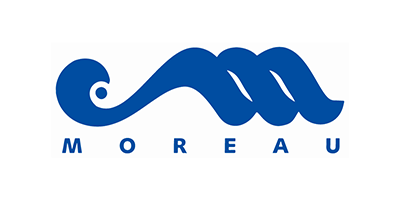
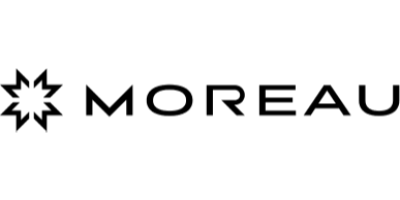
top-12

diff --git a/layouts/_default/baseof.html b/layouts/_default/baseof.html
@@ -71,7 +71,7 @@
           <a class="dropdown-item" href="/devenir-partenaire">Devenir partenaire</a>
             </div>
         </li>
-    <!-- <li class="nav-item dropdown">
+    <li class="nav-item dropdown">
             <a class="nav-link dropdown-toggle" href="#" id="navbarDropdown" role="button" data-toggle="dropdown" aria-haspopup="true" aria-expanded="false">Top 12</a>
              <div class="dropdown-menu" aria-labelledby="navbarDropdown">
             <a class="dropdown-item" href="/top-12-c-est-quoi">C'est quoi ?</a>
@@ -80,7 +80,7 @@
             <a class="dropdown-item" href="/sponsors-top-12">Sponsors Top 12</a>
 
               </div>
-          </li>-->
+          </li>
       <li class="nav-item">
         <a class="nav-link" href="/presse">Presse</a>
       </li>

diff --git a/layouts/section/saison-top-12.html b/layouts/section/saison-top-12.html
@@ -12,9 +12,9 @@
     {{ .Content | markdownify}}
     <br><br>
   <h3 style="font-weight:400">La poule du PSLM</h3>
+<p>Les poules ont été tirées au sort le 24 septembre à Paris à l'occasion des Internationaux de France.</p>
   <div class="row">
-    <p>Les poules ont été tirées au sort le 24 septembre à Paris à l'occasion des Internationaux de France.</p>
-  {{ range .Params.equipepoule }}
+      {{ range .Params.equipepoule }}
   <div class="col-sm-6 col-md-4 col-lg-4 text-center">
 <a href="{{ .lien }}" target="_blank"><img src="{{ .img }}" width="100%" alt="{{ .nom }}">
 <p class="top-12-club">{{ .nom }}</p>

diff --git a/layouts/section/stages.html b/layouts/section/stages.html
@@ -18,10 +18,10 @@
     <p>{{ .Params.ps }}</p>
     <h3>{{ .Params.tarif | markdownify }}</h3>
     <br>
-    <h2>{{ .Params.title }}</h2>
+<!--    <h2>{{ .Params.title }}</h2>
     <h3>{{ .Params.quand }}</h3>
     <img src="{{ .Params.img }}" alt="{{ .Params.title }}" class="text-center">
-    <br>
+    <br>-->
     <h2>{{ .Params.title1 }}</h2>
     <h3>{{ .Params.quand1 }}</h3>
     <img src="{{ .Params.img1 }}" alt="{{ .Params.title1 }}" class="text-center">

diff --git a/layouts/section/equipe-top-12.html b/layouts/section/equipe-top-12.html
@@ -17,7 +17,7 @@
       <div class="encadrement">
         <img src="{{ .img }}" alt="{{ .title }}" class="img-enca">
         <p class="enom">{{ .nom }}</p>
-        <p class="efonc">{{ .fonction }}</p>
+        <!--<p class="efonc">{{ .fonction }}</p>-->
         <p class="edip">{{ .diplome }}</p>
         <p class="eent">Au PSLM depuis {{ .entree }}</p>
       </div>

diff --git a/static/css/style.css b/static/css/style.css
@@ -1349,6 +1349,7 @@ img[alt=dossier-de-partenariat] {
     padding-right: 4rem;
     padding-top: 3rem;
     font-size: 1.1rem;
+    text-align: justify;
 }
 
 .top-12-quoi ul {

diff --git a/content/top-12-c-est-quoi/_index.md b/content/top-12-c-est-quoi/_index.md
@@ -1,7 +1,7 @@
 ---
 title: "Le top 12, C'est quoi ?"
 description: ""
-description2: "Le PSLM à une équipe qui concoure en Top 12.<br>Dans le fonctionnement habituel d'une compétiton de gymnastique artistique en FFGym, toutes les équipes passent aux 4 agrès, on fait le total des points et l'équipe avec le plus de points remporte la compétition. <br>Le format du top 12 est un peu différent, on vous explique ici les subtilités"
+description2: "Le PSLM à une équipe qui concourt en Top 12.<br>Dans le fonctionnement habituel d'une compétiton de gymnastique artistique en FFGym, toutes les équipes passent aux 4 agrès, on fait le total des points et l'équipe avec le plus de points remporte la compétition. <br>Le format du top 12 est un peu différent, on vous explique ici les subtilités"
 galerie:
  - logo:
 banner: "/img/banner-top-12-logo-b.jpg"
@@ -18,7 +18,7 @@ Les rencontres sont réparties sur l'année, avec une première phase de poule (
 
 Chaque rencontre oppose deux équipes. Lors des phases de poule, les équipes vont marquer des points qui vont permettre d'établir le classement de la poule.
 
-- Les premières de chaque poules iront en demi-finales, puis en finale et petite finale.
+- Les premières de chaque poule iront en demi-finales, puis en finale et petite finale.
 - Les deuxièmes joueront un match de classement pour la 5ème à la 8ème place.
 - Les dernières joueront un match de relégation pour essayer de se maintenir pour la saison suivante.
 
@@ -26,13 +26,13 @@ Chaque rencontre oppose deux équipes. Lors des phases de poule, les équipes vo
 ### Des matchs sous forme de duels de gymnaste
 Un match oppose deux équipes. Il va se dérouler avec des duels de gymnaste.
 
-A chaque agrès il y aura 3 passages de 2 gymnastes soit 12 duels au total. Tour à tour les deux clubs qui s'affrontent vont envoyer une gymnaste pour faire le meilleur mouvement possible.
+A chaque agrès il y aura 3 passages de 2 gymnastes soit 12 duels au total. Tour à tour les deux clubs qui s'affrontent vont présenter une gymnaste pour faire le meilleur mouvement possible.
 
 - Un duel remporté fait gagner 3 points à l'équipe,
 - Une défaite fait gagner 1 point,
 - En cas de match nul c'est 2 points pour chaque équipe.
 
-En début de rencontre on tire au sort l'équipe qui commencera par débuter les duels, et ensuite on alterne à chaque duel qui débute.
+ En début de rencontre un tirage au sort est effectué. L'équipe gagnante a le choix ou non de démarrer la compétition. Pour la suite des passages, les duels alternent.
 <br><br>
 ### Stratégie, adrénaline et dépassement de soi !
 

diff --git a/content/equipe-top-12/gym.md b/content/equipe-top-12/gym.md
@@ -4,27 +4,27 @@ encadrement:
  - nom: "Charline BASTIN"
    diplome: "Née en 2005"
    fonction: "PSLM"
-   entree: "1991"
-   img: "/img/gym-top-12-charline.jpg"
+   entree: "2009"
+   img: "/img/gym-top-12-charline.png"
  - nom: "Léa CUXAC"
    diplome: "Née en 2003"
    fonction: "PSLM"
    entree: "2022"
-   img: "/img/gym-top-12-lea.jpg"
+   img: "/img/gym-top-12-lea.png"
  - nom: "Sandra DA SILVA"
-   diplome: "Née en 1989"
+   diplome: "Née en 1998"
    fonction: "PSLM"
    entree: "2008"
    img: "/img/gym-top-12-sandra.png"
  - nom: "Elsa DI LUCA"
    diplome: "Née en 2008"
    fonction: "PSLM"
-   entree: "2018"
+   entree: "2019"
    img: "/img/gym-top-12-elsa.png"
  - nom: "Amel DJALIL"
    diplome: "Née en 2006"
    fonction: "PSLM"
-   entree: "2020"
+   entree: "2019"
    img: "/img/gym-top-12-amel.png"
  - nom: "Zoé JASSERON"
    diplome: "Née en 2004"
@@ -39,28 +39,28 @@ encadrement:
  - nom: "Djenna LAROUI"
    diplome: "Née en 2005"
    fonction: "Pôle France de St Etienne"
-   entree: "1999"
+   entree: "2015"
    img: "/img/gym-top-12-djenna.png"
  - nom: "Salomé LONGEON"
    diplome: "Née en 2008"
    fonction: "PSLM"
-   entree: "2009"
+   entree: "2016"
    img: "/img/gym-top-12-salome.png"
  - nom: "Silane MIELLE"
    diplome: "Née en 2005"
    fonction: "Pôle France de St Etienne"
-   entree: "2020"
+   entree: "2019"
    img: "/img/gym-top-12-silane.png"
  - nom: "Leïca NISHIO"
    diplome: "Née en 2004"
+   entree: "2016"
    fonction: "PSLM"
-   entrée:
    img: "/img/gym-top-12-leica.png"
  - nom: "Chloé PEYTOUR"
    diplome: "Née en 2004"
    fonction: "PSLM"
-   entree: "2007"
-   img: "/img/gym-top-12-chloe.jpg"
+   entree: "2008"
+   img: "/img/gym-top-12-chloe.png"
  - nom: "Maëlle RIVAS"
    diplome: "Née en 2005"
    fonction: "PSLM"
@@ -69,12 +69,12 @@ encadrement:
  - nom: "Noémie SUPLICE"
    diplome: "Née en 2004"
    fonction: "PSLM"
-   entree: ""
-   img: "/img/encadrement-none.jpg"
+   entree: "2016"
+   img: "/img/gym-top-12-noemie.png"
  - nom: "Lilou VIALLAT"
    diplome: "Née en 2008"
    fonction: "Pôle France de St Etienne"
-   entree: "2011"
+   entree: "2016"
    img: "/img/gym-top-12-lilou.png"
 weight: 1
 ---

diff --git a/content/saison-top-12/_index.md b/content/saison-top-12/_index.md
@@ -78,14 +78,15 @@ background: "banner-white"
 ### **11 février 2023** : deuxième journée : **PSLM - Meaux** à domicile
 
 - C'est notre tour de recevoir le match !
-- La rencontre se passera au Gymnase Mado Bonnet (Lyon 8). Elle se déroulera l'après-midi.
+- La rencontre se passera au Gymnase Mado Bonnet (Lyon 8).
+- L'échauffement des équipes démarrera à 14h30 pour un début de compétition à 16h.
 - Nous vous donnons plus d'informations prochainement !
 <br>
 <br>
 
 ### **25 mars 2023** : les matchs selon notre classement en poule
 - Si nous nous classons premier de notre poule nous accéderons aux demi-finales.
-- Si nous nous classons deuxième nous jouerons un match de classement
-- Si nous sommes troisième nous serons en match de relégation
+- Si nous nous classons deuxième nous jouerons un match de classement.
+- Si nous sommes troisième nous serons en match de relégation.
 
 Selon notre place, nous recevrons la compétition ou nous irons matcher à l'extérieur.

diff --git a/content/sponsors-top-12/christian-moreau.md b/content/sponsors-top-12/christian-moreau.md
@@ -1,0 +1,9 @@
+---
+title: "Moreau Sport"
+galerie:
+ - photo: "/img/partenaire-moreau.png"
+galerieaccueil: "/img/partenaire-moreau.png"
+date: 2018-01-28
+lien: "https://moreau-sport.com/fr/"
+accueil: "Moreau Sport est notre partenaire équipementier. Nos justaucorps, mais aussi nos survêtements, les sacs de compétition, la marque habille notre équipe Top 12 !"
+---

diff --git a/content/encadrement/gym.md b/content/encadrement/gym.md
@@ -35,7 +35,7 @@ encadrement:
    diplome: ""
    fonction: "Secteur compétition"
    entree: "2020"
-   img: "/img/encadrement-none.jpg"
+   img: "/img/encadrement-vincent.png"
  - nom: "Laurence"
    diplome: "Bénévole"
    fonction: "Ecole de Gym"

diff --git a/content/equipe-top-12/entraineurs.md b/content/equipe-top-12/entraineurs.md
@@ -15,7 +15,7 @@ encadrement:
    diplome: ""
    fonction: "Secteur compétition"
    entree: "2020"
-   img: "/img/encadrement-none.jpg"
+   img: "/img/encadrement-vincent.png"
 
 weight: 2
 ---
